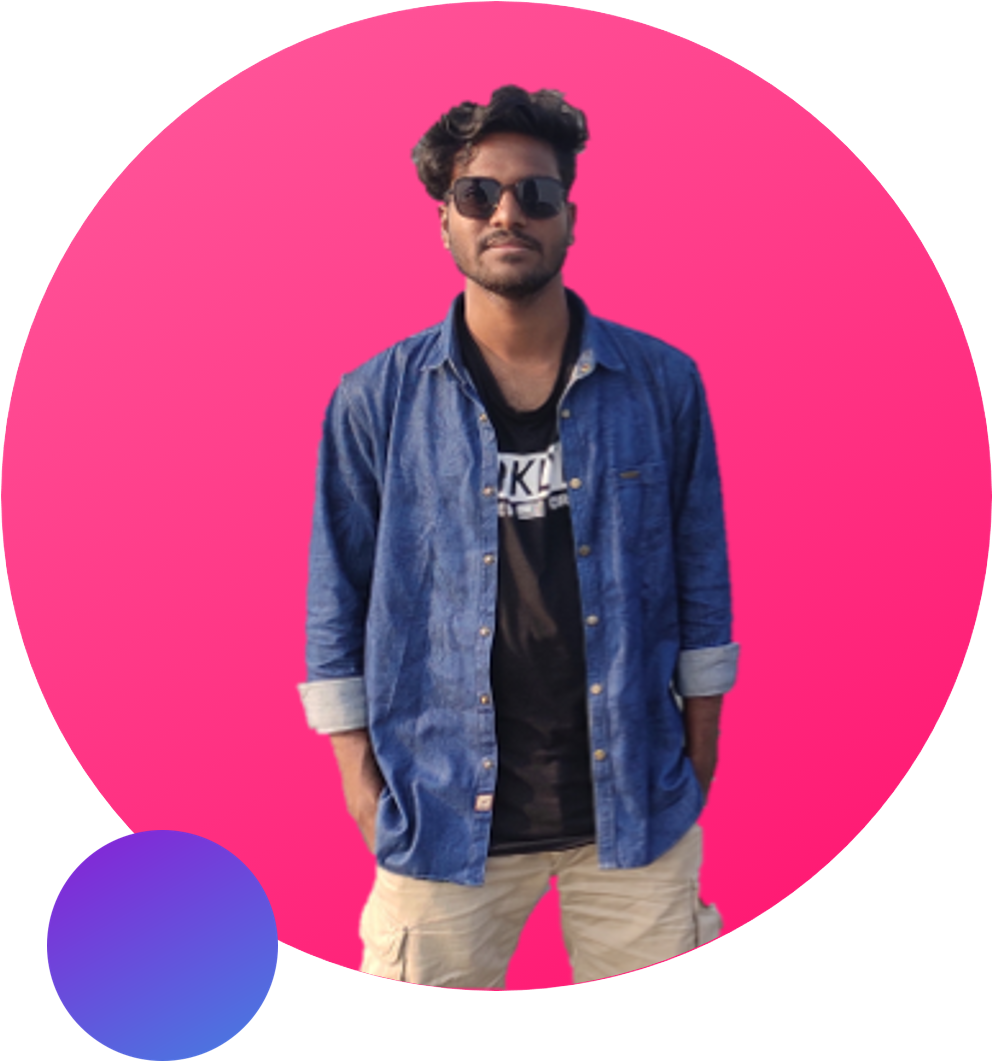
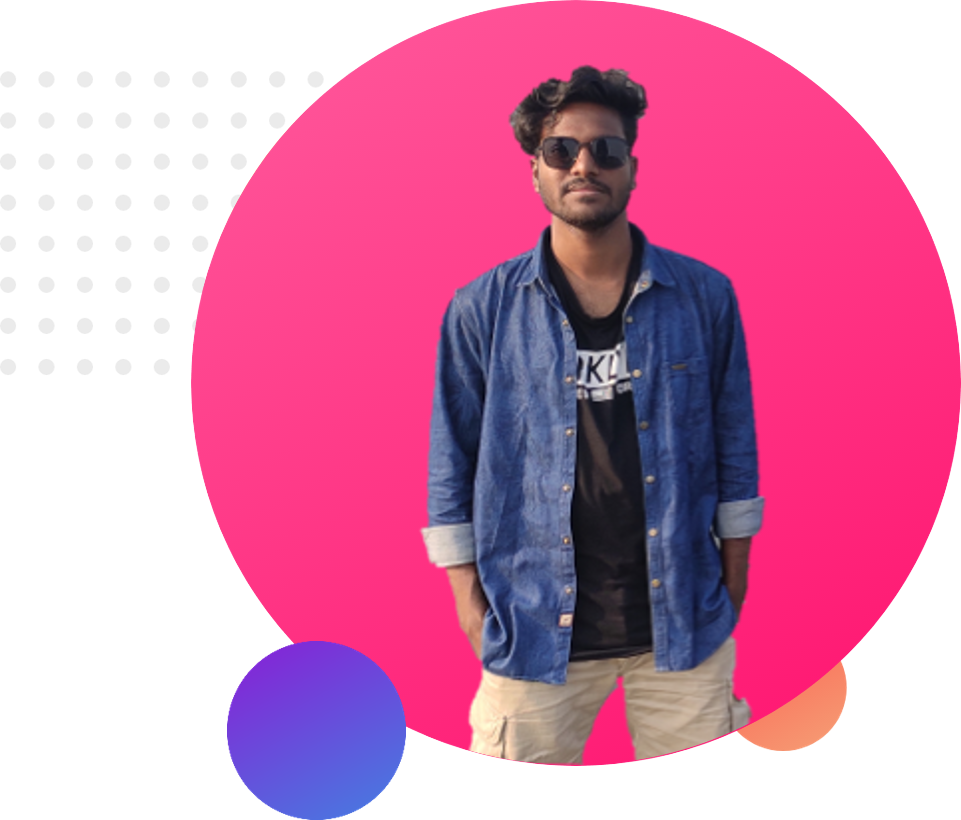
down patr done

diff --git a/index.html b/index.html
@@ -9,16 +9,29 @@
     <link rel="stylesheet" href="style.css">
 </head>
 <body> 
-    <section>
+    <section class="top-banner">
         <div class="half-width">
             <h1>Welcome to</h1> 
             <h1><span class="highlight">Mahedi's</span> protfolio</h1>
             <h3>A world class developer</h3>
             <p>Lots of people do many thing and th e are paid a little, but the web developers are highly paided. So I want to a world class web developer. And In-shah-Allah, one day I'll develope world class websites.</p>
+            <a class="link-button" target="_blank" href="">HIRE ME</a>
         </div>
         <div class="half-width">
-            <img src="images\mahedi112.png">
+            <img src="images/mahedi112.png">
         </div>
+    </section>
+    <section class="down-banner">
+        <div class="half-width">
+            <img src="images/mahedi11.png">
+        </div>
+        <div class="half-width">
+            <h2>MH Khan</h2>
+            <h3>Become a web Developer</h3>
+            <p>Hi! I'm MH Khan and try to make my portfolio website as my first website in the journey of becoming a world class developer.Alhamdullah, I'm going forward, in the help of Allah (swt).</p>
+            <a class="link-button" target="_blank" href="">Download Resume</a>
+        </div>
+
     </section>
 </body>
 </html>

diff --git a/style.css b/style.css
@@ -1,5 +1,6 @@
 body{
     font-family: 'Oswald', sans-serif;
+    margin: 0px;
 }
 h1{
     font-size: 50px;
@@ -16,4 +17,26 @@ h1{
 .half-width img{
     width: 100%;
     padding: 0px;
+}
+section{
+    height: 500px;
+}
+.top-banner{
+    background-image: url("images/top-banner.png");
+    background-repeat: no-repeat;
+    
+}
+.link-button{
+    text-decoration: none;
+    background-image: linear-gradient(lightSalmon, tomato);
+    border: 2px;
+    padding: 10px 20px;
+    border-radius: 5px;
+    color: white;
+    font-weight: 100;
+}
+.down-banner{
+    background-image: url("images/dream-bg.png");
+    background-repeat: no-repeat;
+    background-position: right;
 }
